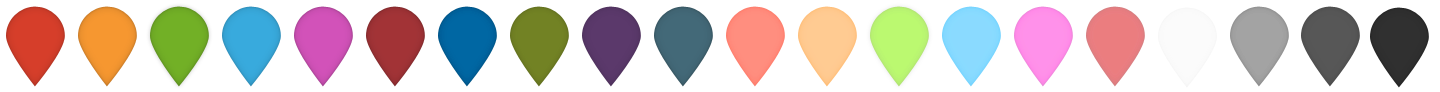
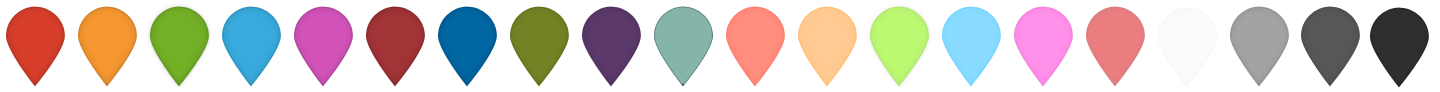
Some customization

Changed region(s): [[0.4375, 0.0652, 0.5, 0.913]]

diff --git a/src/scss/_custom_Lichtblick.scss b/src/scss/_custom_Lichtblick.scss
@@ -51,7 +51,7 @@
 
                                 color:              #3a1d27;
                                 //background:         none;
-                                background-color:   #d6e5e1;
+                                background-color:   rgb(133 180 169);
 
                                 i {
                                     font-size:          120%;
@@ -62,7 +62,7 @@
                             button:hover {
                                 color:              #ffffff;
                                 //background:         radial-gradient(farthest-corner at 39px 40px, #f9e8c2 0%, #ebad5c 40%, #ed4f54 80%);
-                                background-color:   #5b9787;
+                                background-color:   rgb(133 180 169);
                             }
 
                         }
@@ -76,7 +76,7 @@
                             }
 
                             .activated {
-                                background-color:   #d6e5e1;
+                                background-color:   rgb(133 180 169);
                             }
 
                         }
@@ -146,9 +146,6 @@
             #rightbar {
 
                 background-color:    #e2e2e2;
-                // width:              calc(50% - 15px);
-                // border-radius:      8px 8px 8px 8px;
-                // height:             calc(100% - 15px);
 
                 #detailedInfos {
 
@@ -179,6 +176,15 @@
                     }
 
                     .measurementValues {
+
+                        .measurementValue {
+                            .verificationStatus {
+                                .fa-check-circle {
+                                    color:          rgb(133 180 169);
+                                }
+                            }
+                        }
+
                         .measurementValue:hover {
                             background-color:   #aaaaaa;
                         }
@@ -188,7 +194,7 @@
 
                 #feedback {
 
-                    display:           none;
+                    display:           none !important;
                     color:           #34668a;
 
                     #feedbackMethods {
@@ -203,11 +209,58 @@
 
         }
 
-        #overlay {
-            #overlayText {
+        #measurementsDetails {
+            .overlayText {
 
                 background-color:    #e2e2e2;
                 border:              20px solid #e2e2e2;
+
+                .data {
+
+                    #cryptoData {
+                        .row:hover {
+                            background-color:   rgb(252 188 103);
+                        }
+                    }
+
+
+                    #buffer {
+                        .description {
+                            background-color:    rgb(133, 180, 169);
+                        }
+                        .value {
+                            background-color:    #cecece
+                        }
+                    }
+
+                    #hashedBuffer {
+                        .description {
+                            background-color:    rgb(133, 180, 169);
+                        }
+                        .value {
+                            background-color:    #cecece
+                        }
+                    }
+
+                    #publicKey {
+                        .description {
+                            background-color:    rgb(133, 180, 169);
+                        }
+                        .value {
+                            background-color:    #cecece
+                        }
+                    }
+
+                    #signatureExpected {
+                        .description {
+                            background-color:    rgb(133, 180, 169);
+                        }
+                        .value {
+                            background-color:    #cecece
+                        }
+                    }
+
+                }
 
                 .infoblock {
 
@@ -221,15 +274,21 @@
                     }
 
                 }
-
+                
                 .footer {
 
-                    #overlayLeftButton {
+                    .overlayLeftButton {
                         color:            #888888;
                     }
 
-                    #overlayLeftButton:hover {
+                    .overlayLeftButton:hover {
                         color:            #000000;
+                    }
+
+                    #signatureCheck {
+                        .fa-check-circle {
+                            color:            rgb(133, 180, 169)
+                        }
                     }
 
                 }
@@ -246,7 +305,7 @@
 }
 
 .fa-check-circle {
-    color:          #85b4a9;
+    color:          rgb(51 71 71);
 }
 
 .leaflet-container a {

diff --git a/src/ts/chargyApp.ts b/src/ts/chargyApp.ts
@@ -1764,8 +1764,10 @@ export class ChargyApp {
                 const greenMarker   = leaflet.AwesomeMarkers?.icon({
                     prefix:               'fa',
                     icon:                 'charging-station',
-                    markerColor:          'green',
-                    iconColor:            '#c2ec8e'
+                    //markerColor:          'green',
+                    //iconColor:            '#c2ec8e'
+                    markerColor:          'cadetblue',
+                    iconColor:            '#c1e9e0'
                 });
 
                 let markerIcon      = redMarker;

diff --git a/src/scss/_custom.scss b/src/scss/_custom.scss
@@ -285,6 +285,12 @@
                         color:            #000000;
                     }
 
+                    #signatureCheck {
+                        .fa-check-circle {
+                            color:            rgb(133, 180, 169)
+                        }
+                    }
+
                 }
 
             }
